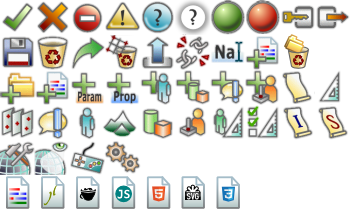
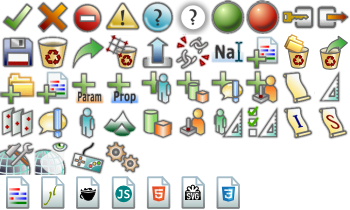
Rheia: display dialog to restore deleted file in authoring perspective

Changed region(s): [[0.9143, 0.1714, 1.0, 0.3429]]

diff --git a/rheia/templates/authoringPerspective.html b/rheia/templates/authoringPerspective.html
@@ -6,7 +6,8 @@
     <a class="new-folder"></a>
     <a class="upload"></a>
     <a class="rename"></a>
-    <a class="remove-folder"></a>
+    <a class="remove-folder"></a>    
+    <a class="restore"></a>
     <i class="separator"></i>
     <a class="save"></a>
     <a class="remove"></a>

diff --git a/docs/Build.md b/docs/Build.md
@@ -11,6 +11,11 @@ This is the configuration I set up to work properly.
   2. OnSaveBuild
   3. CoffeeScript
 
+# Git
+On windows, you'll need to desactivate non-ascii management :
+
+  git config --global core.quotepath off
+
 # Install node-gyp
 
 Some dependencies (especially Zombie, the headless browser) need a platforme-dependent build.

diff --git a/docs/TODO.md b/docs/TODO.md
@@ -6,6 +6,7 @@
         - transactional behaviour
     - Security
         - register users from Facebook
+        - **[TODO]** extends session life when activity detected
     - test images for field types and event types
 
 - Rheia
